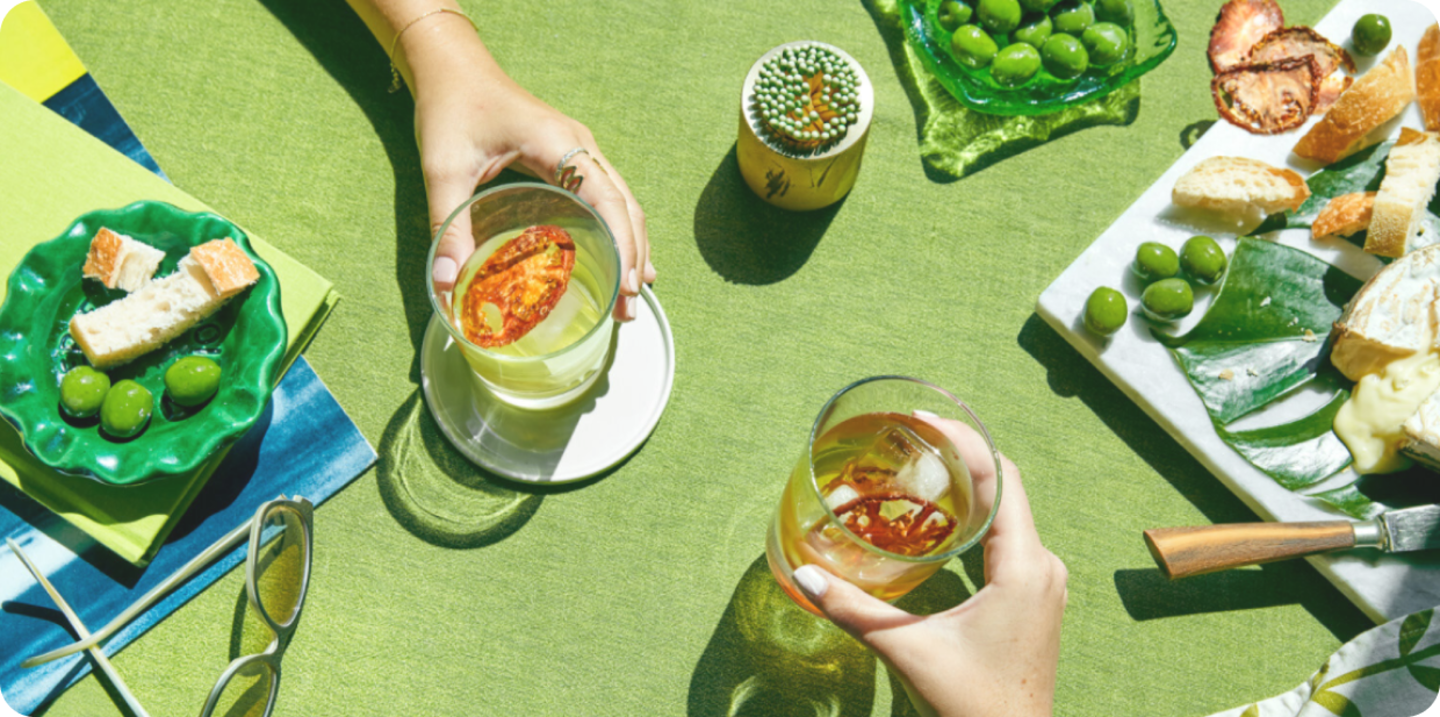
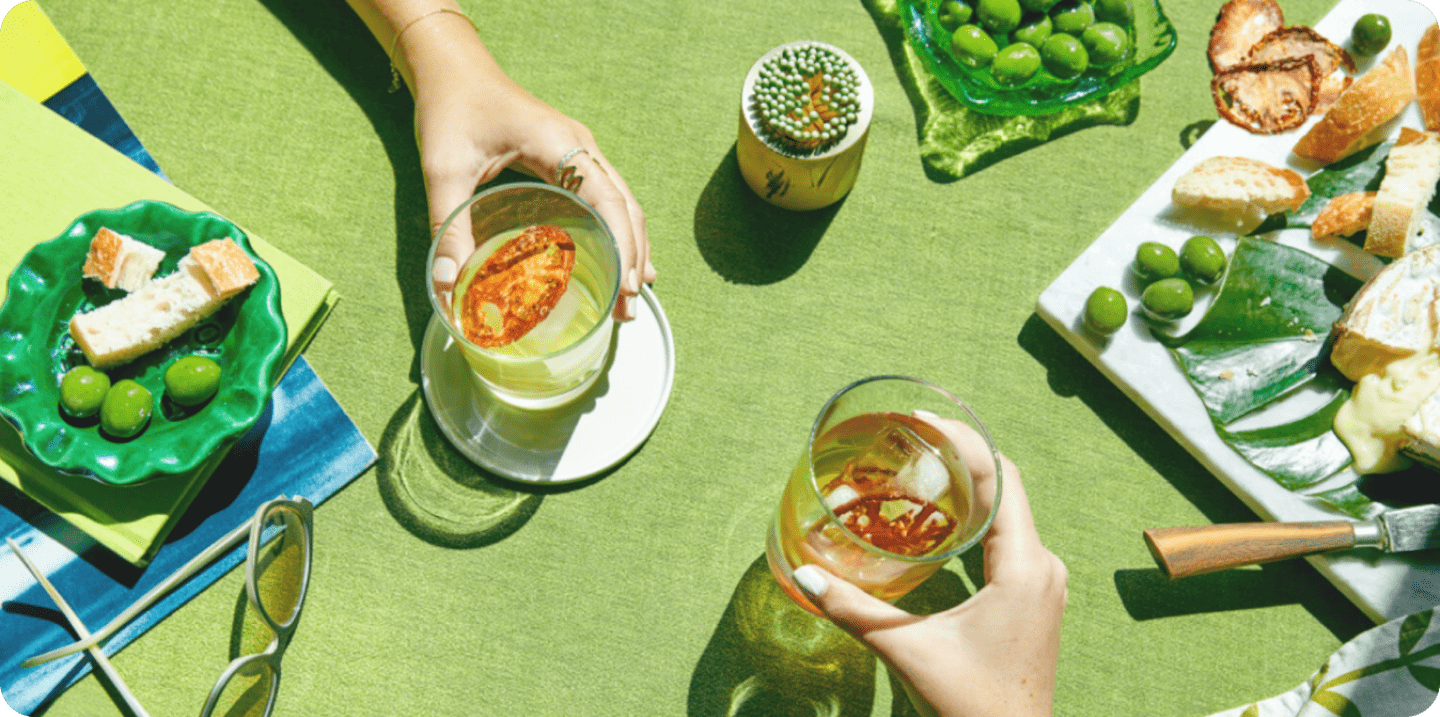
refactor: lighthouse 최적화
- 이미지 크기 압축

- head태그 추가

Changed region(s): [[0.625, 0.0, 0.6562, 0.0614], [0.3438, 0.3989, 0.375, 0.4296], [0.0312, 0.7364, 0.0625, 0.7671]]

diff --git a/src/components/home/components/PromotionBanner.tsx b/src/components/home/components/PromotionBanner.tsx
@@ -1,3 +1,4 @@
+import Image from "next/image";
 import Link from "next/link";
 import styled from "styled-components";
 import useElementCurWidth from "../../../hooks/useElementCurWidth";
@@ -14,7 +15,14 @@ const PromotionBanner = ({ banners }: Props) => {
       <Slider itemWidth={width}>
         {banners.map(({ url, href }, i) => (
           <Link key={i} href={href} passHref>
-            <StyledItem url={url} />
+            <StyledItem>
+              <Image
+                src={url}
+                layout="fill"
+                objectFit="cover"
+                alt="promotion banner"
+              />
+            </StyledItem>
           </Link>
         ))}
       </Slider>
@@ -22,14 +30,16 @@ const PromotionBanner = ({ banners }: Props) => {
   );
 };
 
-const StyledContainer = styled.section``;
+const StyledContainer = styled.section`
+  border-radius: 0.55rem;
+  overflow: hidden;
+`;
 
-const StyledItem = styled.div<{ url: string }>`
-  background: url(${({ url }: { url: string }) => url}) no-repeat center/cover;
+const StyledItem = styled.div`
+  position: relative;
   height: 18rem;
   flex-shrink: 0;
   width: 100%;
-  border-radius: 0.55rem;
   &:hover {
     cursor: pointer;
   }

diff --git a/src/pages/_app.tsx b/src/pages/_app.tsx
@@ -1,5 +1,6 @@
 import GlobalStyles from "../styles/globalStyles";
 import { QueryClient, QueryClientProvider } from "@tanstack/react-query";
+import Head from "next/head";
 
 if (process.env.NEXT_PUBLIC_API_MOCKING === "enabled") {
   require("../../mocks");
@@ -11,6 +12,13 @@ function App({ Component, pageProps }: any) {
   return (
     <QueryClientProvider client={queryClient}>
       <GlobalStyles />
+      <Head>
+        <title>Teave</title>
+        <meta
+          name="description"
+          content="Teave, E-commerce site that sells and recommends drinking tea"
+        />
+      </Head>
       <Component {...pageProps} />
     </QueryClientProvider>
   );

diff --git a/src/components/common/MainNavigator.tsx b/src/components/common/MainNavigator.tsx
@@ -20,7 +20,12 @@ const MainNavigator = () => {
       <StyledContainer>
         <StyledTopWrapper>
           <Link href="/" passHref>
-            <StyledLogo src="/image/logo_text.png" width={63} height={17} />
+            <StyledLogo
+              src="/image/logo_text.png"
+              width={63}
+              height={17}
+              alt={"main logo"}
+            />
           </Link>
         </StyledTopWrapper>
         <StyledNavWrapper>
